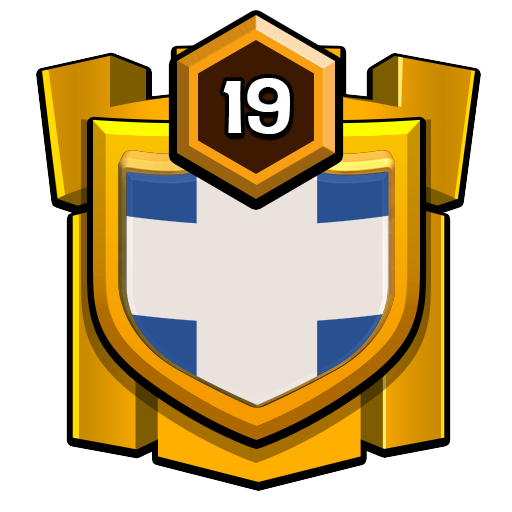
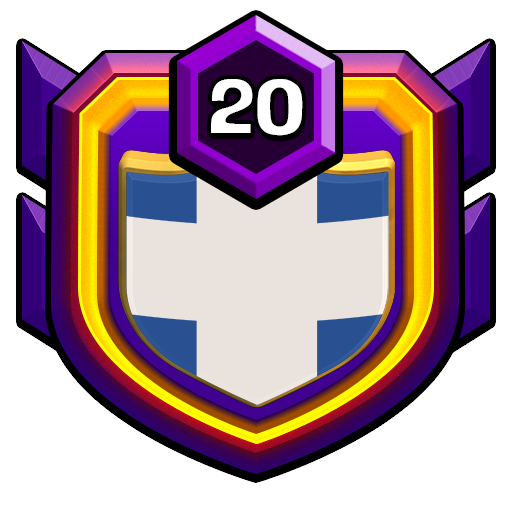
AT

diff --git a/index.html b/index.html
@@ -32,7 +32,7 @@
             <div class="clash1">
                 <h3>CLASH CITY BR</h3>
                 <img src="estilos/Imagens/Clashcity.png" alt="clashcitybr">
-                <p>Clã principal - Nível 19</p>
+                <p>Clã principal - Nível 20</p>
                 <ul>
                     <li id="trofeus">Troféus mínimos: 2000</li>
                     <li id="guerra">Guerra frequente</li>
@@ -71,11 +71,10 @@
     <aside>
         <h2>Vídeos em Destaque</h2>
         <div class="videos">
-            <iframe width="360" height="215" src="https://www.youtube.com/embed/_bhMYL484us?si=cTJHOS0NGEPly55p"
+ <iframe width="460" height="315" src="https://www.youtube.com/embed/_bhMYL484us?si=cTJHOS0NGEPly55p"
                 title="YouTube video player" frameborder="0"
                 allow="accelerometer; autoplay; clipboard-write; encrypted-media; gyroscope; picture-in-picture; web-share"
                 referrerpolicy="strict-origin-when-cross-origin" allowfullscreen></iframe>
-
         </div>
         <h2 id="formulario">Entre em Contato</h2>
         <form action="#" method="post" autocomplete="on">
@@ -120,3 +119,4 @@
 </body>
 
 </html>
+ 
